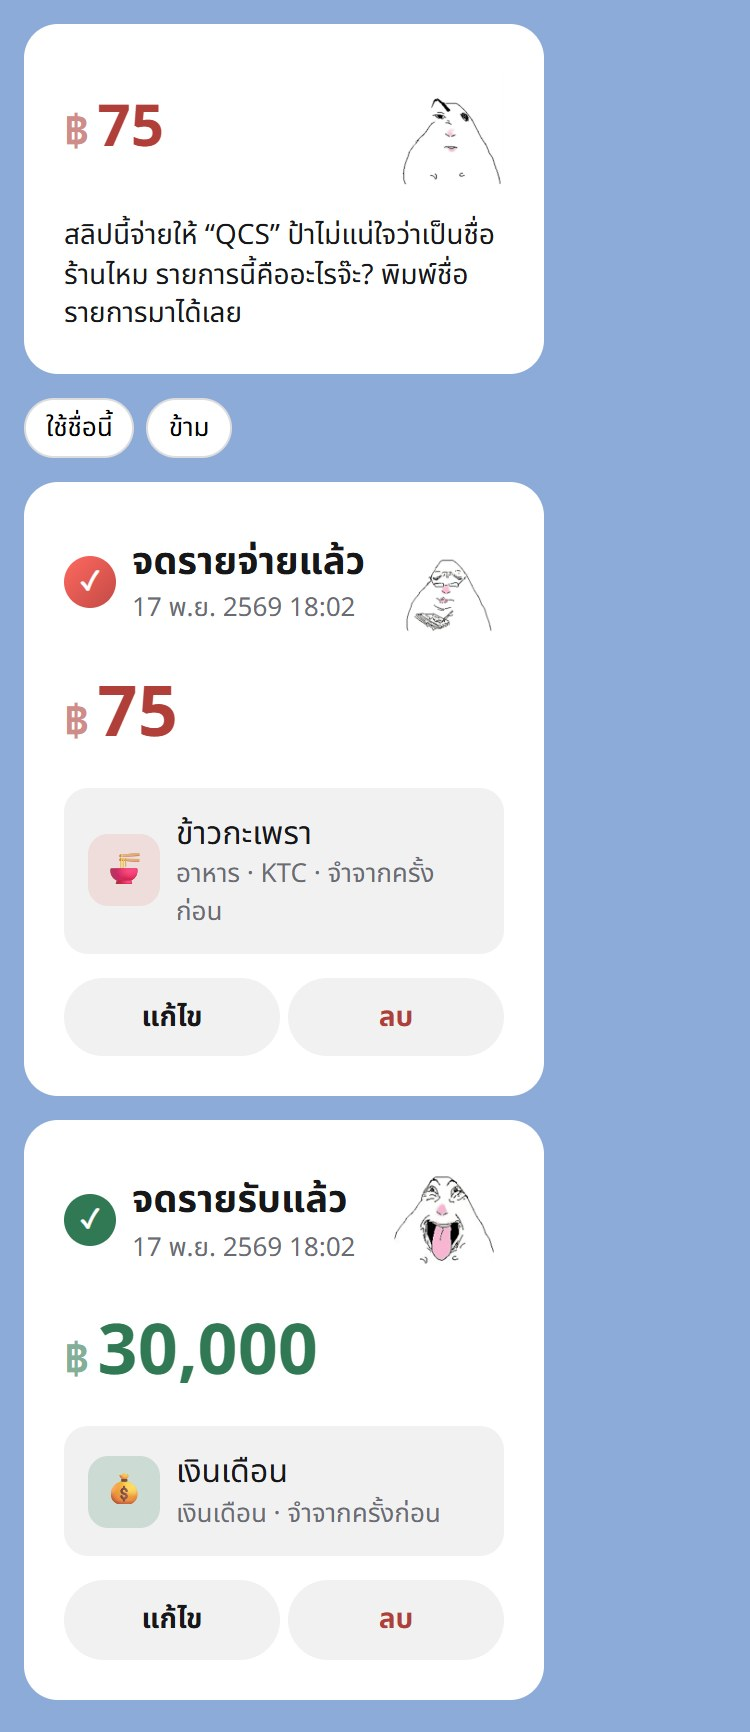
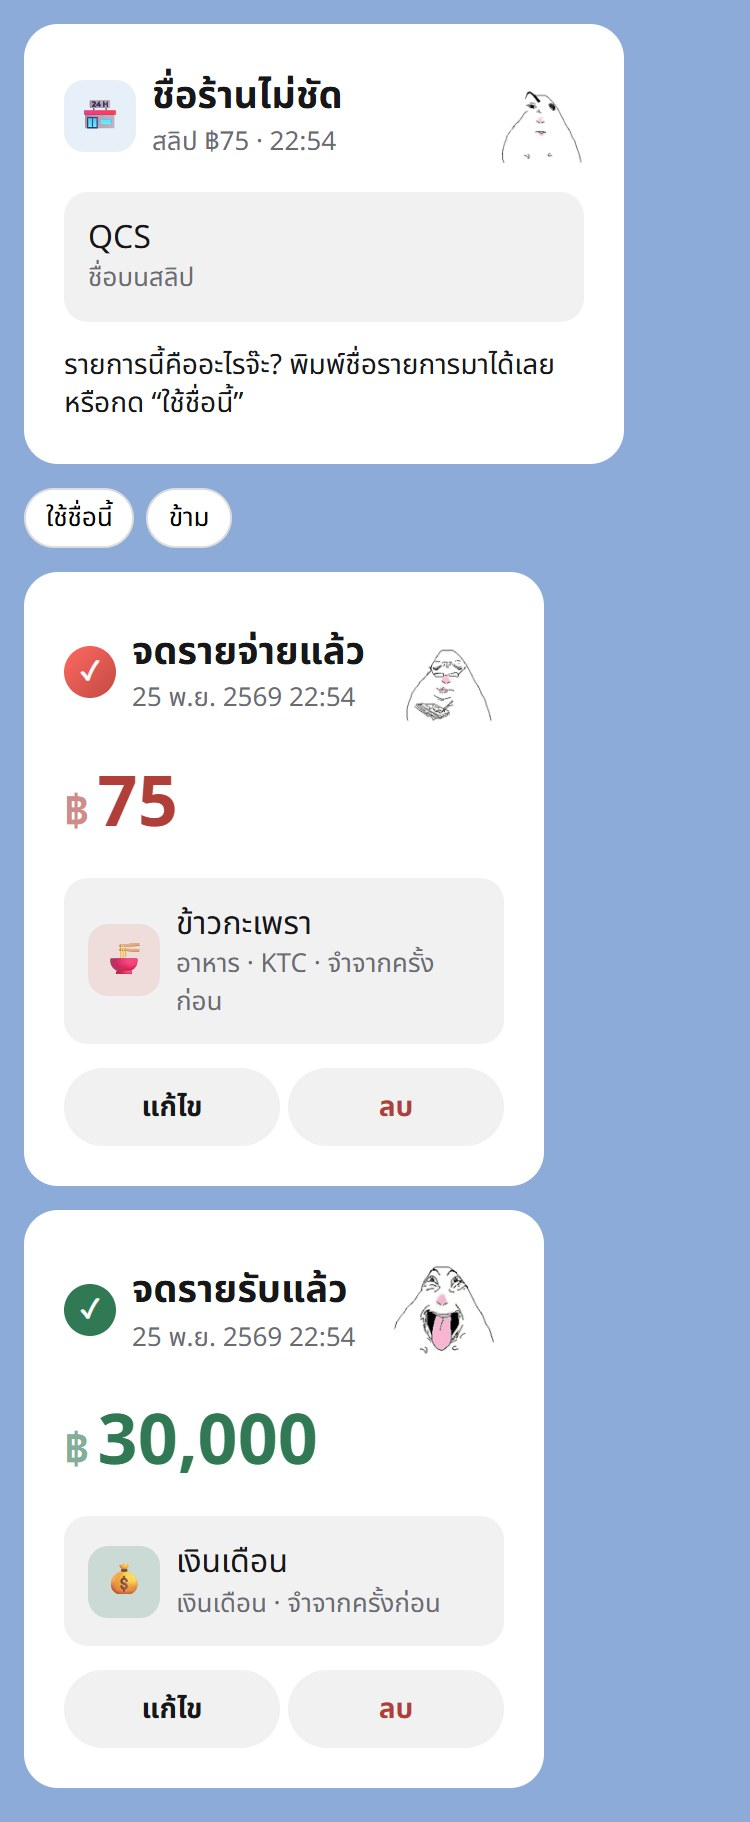
README: the four question cards, and the LINE cards picture retaken

diff --git a/README.md b/README.md
@@ -46,10 +46,11 @@ The hamsters are from [silly hamsters](https://store.line.me/stickershop/product
 - **Chat menu:** under the chat, จดรายการ opens a new entry in the web app, สรุปในแชต and วิธีใช้ answer in the chat, and the bar along the bottom opens each of the app's five tabs.
 - **Daily reminder:** a message at your chosen time on days with nothing recorded.
 - **Recurring entries:** daily, weekly or monthly, added automatically.
-- **Bank alerts in LINE, recorded by themselves (iPhone, iOS 27+):** a Shortcuts automation (set up from ตั้งค่า → วิธีตั้งค่า, an English step-by-step page with drawings of each Shortcuts screen) sends each LINE notification to `/api/notify` with the link from ตั้งค่า (one trigger per bank or card, LINE filtered by the account's title such as KBank or KTC, so other chats never leave the phone and iPhone doesn't announce a run for each of them; card alerts sent by SMS are another trigger, Messages filtered by the sender's title such as UOBT; each trigger also has a Message filter for its payment alerts' wording, so money-in and other alerts don't start it: จากบัญชี for KBank Live, บัตรเสริม for a KTC supplementary card, มีการใช้ for UOB; for a LINE trigger the word must be one the notification itself shows, a short summary, not the heading inside the bank's card in the chat, which never matches). KTC heads its card payments รายการเงินเข้า, which ป้าคีน still records as spending. Shops are recorded without their branch: YOSHINOYA(CHAMCHURI SQ is YOSHINOYA). Text without an amount of money stops there and is not kept; the rest goes to Gemini, which records money spent (a bank, card or wallet payment, transfer out or top-up) and ignores chats, promotions, OTPs and declined payments. Money received isn't recorded either; the Shortcut's notification just says "เงินเข้า ฿500". ป้าคีน then asks in LINE, one question at a time and only when needed: what it was, when the payee isn't clearly a shop (a code, a person, an unknown name); how much was yours, for a payment over ฿500 (buttons for all of it or split 2, 3 or 4 ways, or type an amount), since it may have covered friends too; and which category, when it would otherwise land in อื่นๆ. The category normally comes from the last entry with the same payee when category memory is on, otherwise from the model's guess, so an answer is remembered for that payee next time. These questions are push messages, so they count toward the official account's monthly limit. A card's void alert removes the matching payment, and a payment already recorded (the same amount and name within 2 hours, such as its slip and then its alert) isn't added twice. The Shortcut shows what was recorded as a notification, so it uses none of the LINE message quota.
+- **Bank alerts in LINE, recorded by themselves (iPhone, iOS 27+):** a Shortcuts automation (set up from ตั้งค่า → วิธีตั้งค่า, an English step-by-step page with drawings of each Shortcuts screen) sends each LINE notification to `/api/notify` with the link from ตั้งค่า (one trigger per bank or card, LINE filtered by the account's title such as KBank or KTC, so other chats never leave the phone and iPhone doesn't announce a run for each of them; card alerts sent by SMS are another trigger, Messages filtered by the sender's title such as UOBT; each trigger also has a Message filter for its payment alerts' wording, so money-in and other alerts don't start it: จากบัญชี for KBank Live, บัตรเสริม for a KTC supplementary card, มีการใช้ for UOB; for a LINE trigger the word must be one the notification itself shows, a short summary, not the heading inside the bank's card in the chat, which never matches). KTC heads its card payments รายการเงินเข้า, which ป้าคีน still records as spending. Shops are recorded without their branch: YOSHINOYA(CHAMCHURI SQ is YOSHINOYA). Text without an amount of money stops there and is not kept; the rest goes to Gemini, which records money spent (a bank, card or wallet payment, transfer out or top-up) and ignores chats, promotions, OTPs and declined payments. Money received isn't recorded either; the Shortcut's notification just says "เงินเข้า ฿500". ป้าคีน then asks in LINE, one question at a time and only when needed: what it was, when the payee isn't clearly a shop (a code, a person, an unknown name); how much was yours, for a payment over ฿500 (buttons for all of it or split 2, 3 or 4 ways, or type an amount), since it may have covered friends too; and which category, when it would otherwise land in อื่นๆ. Each question has a card of its own, so they can't be taken for one another: a coloured badge and a title saying what is asked (🏪 ชื่อร้านไม่ชัด with the name as shown, ✏ ค่าอะไรจ๊ะ? when there is no name, 👥 แบ่งจ่ายไหม? with the full amount large, 🏷 หมวดไหนดี? with the entry as it is in อื่นๆ), and the alert or slip it is about, with its time. The category normally comes from the last entry with the same payee when category memory is on, otherwise from the model's guess, so an answer is remembered for that payee next time. These questions are push messages, so they count toward the official account's monthly limit. A card's void alert removes the matching payment, and a payment already recorded (the same amount and name within 2 hours, such as its slip and then its alert) isn't added twice. The Shortcut shows what was recorded as a notification, so it uses none of the LINE message quota.
 
 <p>
   <img src="docs/notify.jpg" width="400" alt="จดจากแจ้งเตือน LINE in ตั้งค่า, light and dark">
+  <img src="docs/line-questions.jpg" width="200" alt="The four questions in LINE: ชื่อร้านไม่ชัด, หมวดไหนดี?, ค่าอะไรจ๊ะ? and แบ่งจ่ายไหม?">
 </p>
 
 ## Web app
@@ -127,4 +128,4 @@ Found a way into someone else's entries, or around the signed link? Please repor
 
 ## License
 
-The code is under the [MIT License](LICENSE). The hamster pictures are not: `public/chars/*.png`, `docs/characters.png` and the hamsters in `docs/line-cards.jpg` and `docs/line-report.jpg` are from [silly hamsters](https://store.line.me/stickershop/product/31413469/en) by shiba, © shiba, used here with permission, and may not be reused without shiba's own permission.
+The code is under the [MIT License](LICENSE). The hamster pictures are not: `public/chars/*.png`, `docs/characters.png` and the hamsters in `docs/line-cards.jpg`, `docs/line-questions.jpg` and `docs/line-report.jpg` are from [silly hamsters](https://store.line.me/stickershop/product/31413469/en) by shiba, © shiba, used here with permission, and may not be reused without shiba's own permission.
